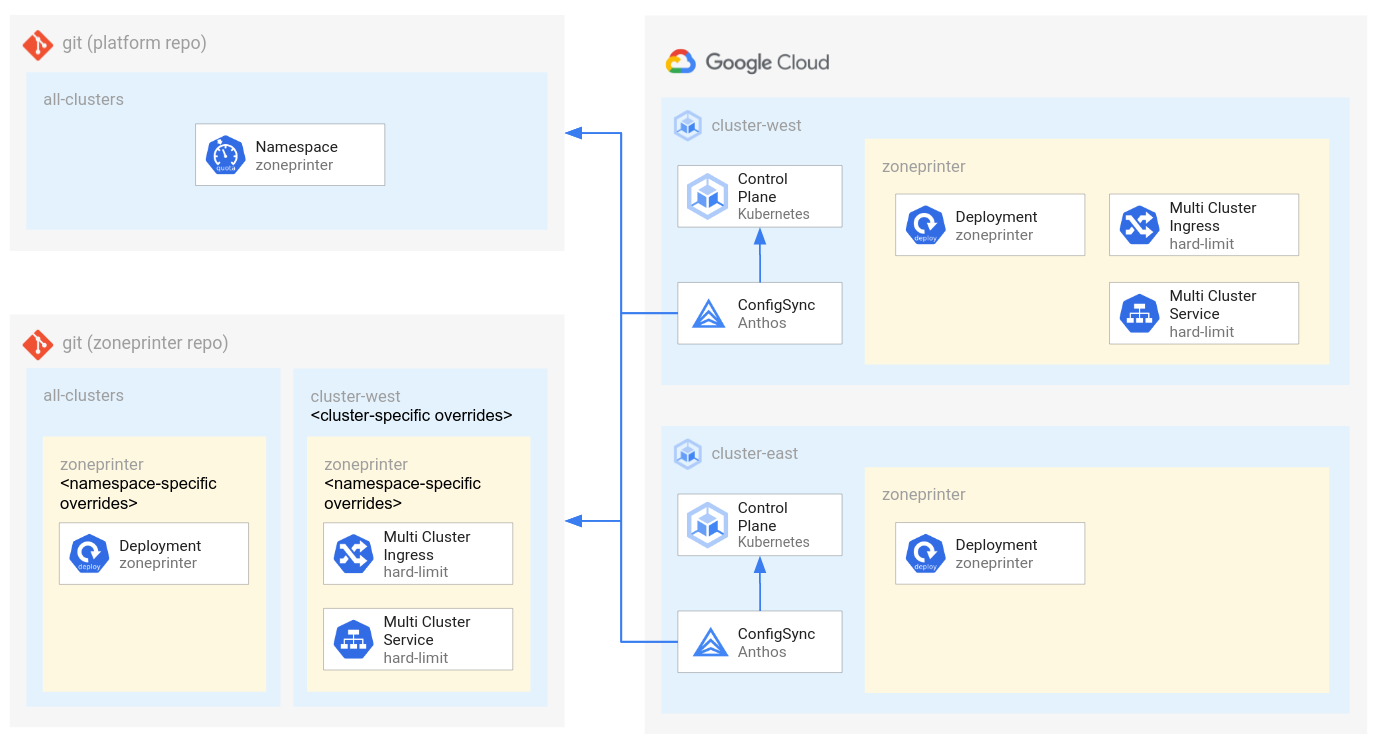
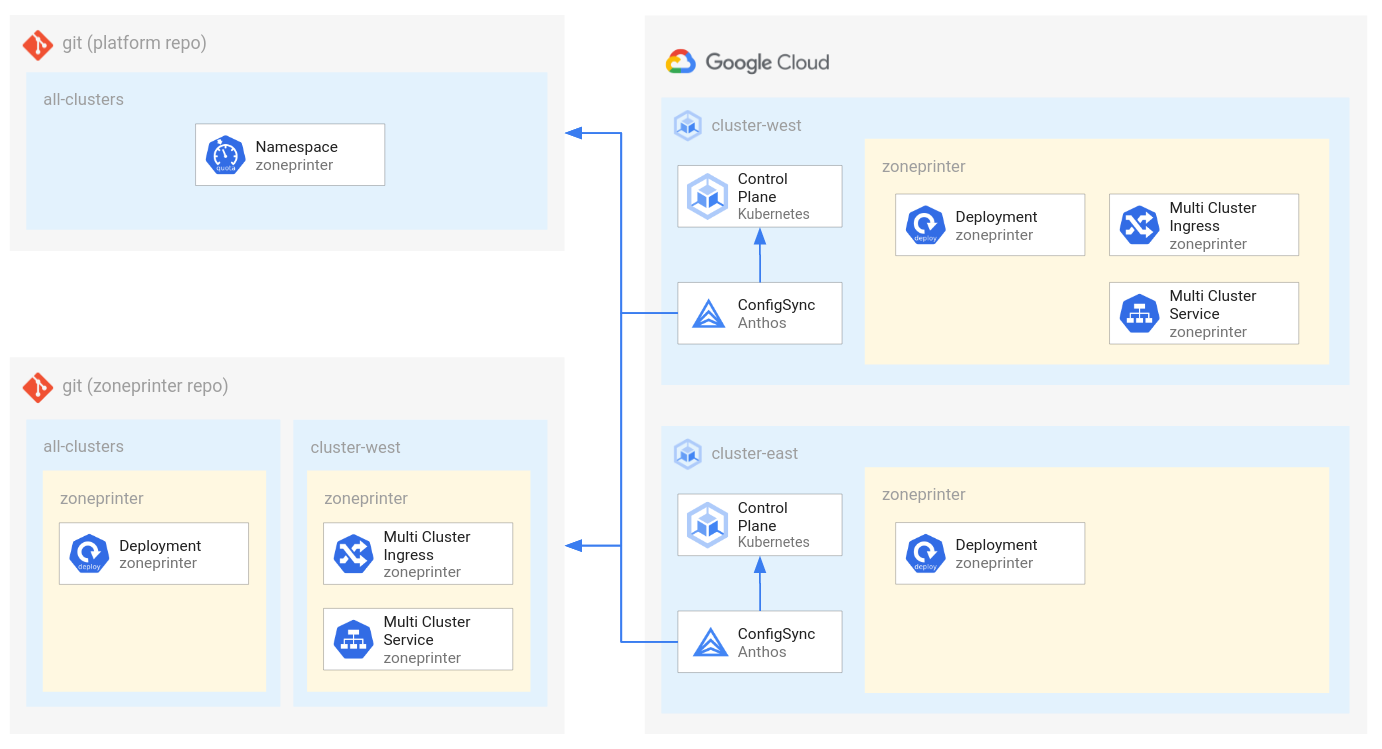
Rename MCI example resources to "zoneprinter"

diff --git a/multi-cluster-ingress/README.md b/multi-cluster-ingress/README.md
@@ -66,8 +66,8 @@ This tutorial demonstrates one tenant with a workload that span multiple cluster
 │           └── namespaces
 │               └── zoneprinter
 │                   ├── apps_v1_deployment_zoneprinter.yaml
-│                   ├── networking.gke.io_v1_multiclusteringress_zone-ingress.yaml
-│                   └── networking.gke.io_v1_multiclusterservice_zone-mcs.yaml
+│                   ├── networking.gke.io_v1_multiclusteringress_zoneprinter.yaml
+│                   └── networking.gke.io_v1_multiclusterservice_zoneprinter.yaml
 ├── configsync-src
 │   ├── all-clusters
 │   │   └── namespaces
@@ -439,7 +439,9 @@ kubectl get Deployment -n zoneprinter --context ${CLUSTER_EAST_CONTEXT}
 ```
 
 Should include (non-exclusive):
-- TODO
+- deployment.apps/zoneprinter (both clusters)
+- multiclusteringress.networking.gke.io/zoneprinter (cluster-west only)
+- multiclusterservice.networking.gke.io/zoneprinter (cluster-west only)
 
 **Poll the ingress endpoint to see which cluster responds:**
 
